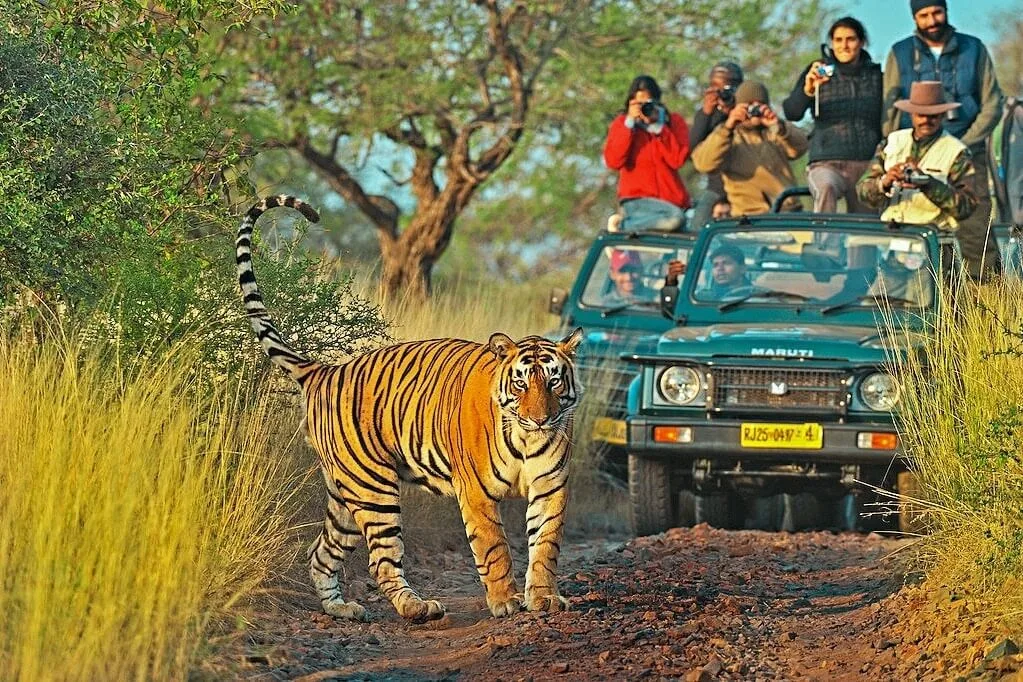
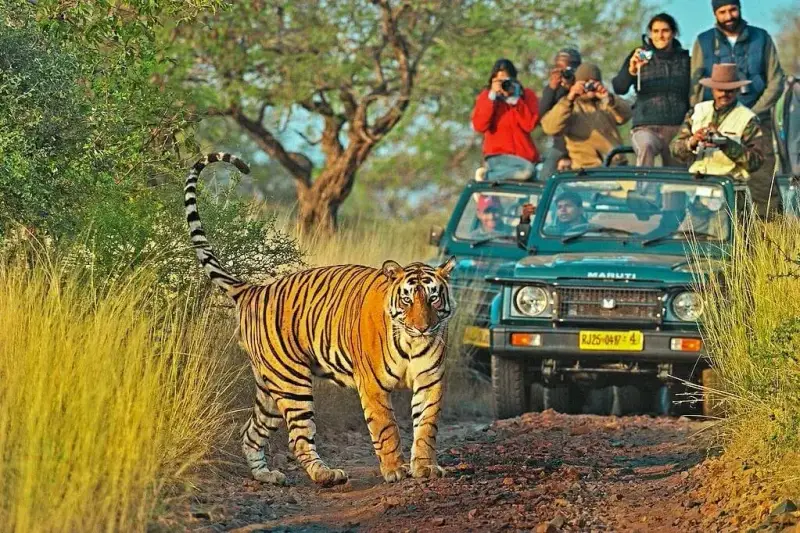
perf: hydrate prerendered HTML, inline CSS, right-size images (PSI LCP fix)
PageSpeed mobile showed LCP 4.4s with a 2.47s "element render delay":
createRoot threw away the prerendered DOM and repainted it once JS ran,
so Chrome recorded LCP at the repaint.

- Prerender now emits real server markup (renderToString + StaticRouter
  on AppShell) and the browser hydrates it (hydrateRoot) — DOM is reused,
  no repaint. Verified clean hydration on all 73 pages.
- Home <style> had two text chunks -> hydration mismatch (#418); merged.
- Hero text no longer fades from opacity 0 (slide only), so it counts as
  painted immediately.
- App CSS (~9 KB) inlined into each page: no render-blocking request.
- Images: hero 720w variant via srcset/imagesrcset (89 -> 34 KB on
  phones), logo 1170px -> 96px (27 -> 1 KB), video poster JPG -> 720w
  WebP (85 -> 24 KB), Ranthambore photo 800w (229 -> 101 KB).
- Blog schema logo URLs pointed at a non-existent unhashed asset.

Local Lighthouse (mobile, throttled): home 93 -> 97, LCP 3.1 -> 2.6s,
render delay ~100ms.

Changed region(s): [[0.375, 0.5103, 0.4688, 0.6004], [0.9062, 0.5103, 0.9375, 0.5403]]

diff --git a/src/pages/Home.jsx b/src/pages/Home.jsx
@@ -26,7 +26,7 @@ import amberFort from "../assets/amber-fort.jpg";
 import cityPalace from "../assets/city-palace.jpeg";
 import cloudResortVideo from "../assets/CloudResort2.mp4";
 import cloudResortPdf from "../assets/cloudResort.pdf";
-import cloudResortPoster from "../assets/CloudResortPoster.jpg";
+import cloudResortPoster from "../assets/CloudResortPoster.webp";
 
 const CITIES_PAGE_LINK = "/city";
 const WHATSAPP_NUMBER = "919636974688";
@@ -301,7 +301,7 @@ export default function Home() {
           color: #fff;
           animation: heroFade 1s ease both 0.2s;
         }
-        @keyframes heroFade { from { opacity:0; transform:translateY(28px); } to { opacity:1; transform:none; } }
+        @keyframes heroFade { from { transform:translateY(28px); } to { transform:none; } } /* no opacity: text counts as painted immediately (LCP) */
 
         .hero-title {
           font-family: 'Cormorant Garamond', serif;
@@ -934,9 +934,9 @@ export default function Home() {
           .stats-inner { grid-template-columns: 1fr 1fr; }
           .hero-title { font-size: 2.6rem; }
         }
-      `}
-        {/* ✅ CORE WEB VITALS ADDITIONS */}
-        {`
+      
+        /* ✅ CORE WEB VITALS ADDITIONS */
+
         /* ── MOBILE TOUCH TARGETS (min 44x44px) ── */
         .btn-primary, .btn-ghost {
           min-height: 48px;
@@ -1119,6 +1119,8 @@ export default function Home() {
           <picture>
             <img
               src="/HeroBannerImagel.webp"
+              srcSet="/HeroBannerImagel-720.webp 720w, /HeroBannerImagel.webp 1170w"
+              sizes="100vw"
               alt="Explore Incredible India — Ranthambore Tiger Safari and Jaipur family tours by BharatMile"
               className="hero-img"
               loading="eager"

diff --git a/src/main.jsx b/src/main.jsx
@@ -1,18 +1,22 @@
 import { StrictMode } from 'react'
-import { createRoot } from 'react-dom/client'
+import { createRoot, hydrateRoot } from 'react-dom/client'
 import './index.css'
 import App from './App.jsx'
 import { findRoute, NotFound } from './routes'
 
-// Load the current page's chunk before mounting so the prerendered HTML is
-// replaced by an identical render instead of the "Loading…" fallback.
+// Load the current page's chunk before hydrating so the first client render
+// matches the prerendered HTML instead of suspending.
 const current = findRoute(window.location.pathname)?.Component ?? NotFound
 Promise.resolve(current.preload?.())
   .catch(() => {})
   .then(() => {
-    createRoot(document.getElementById('root')).render(
+    const container = document.getElementById('root')
+    const app = (
       <StrictMode>
         <App />
-      </StrictMode>,
+      </StrictMode>
     )
+    // Prerendered pages are hydrated (DOM reused, no repaint); dev server renders fresh.
+    if (container.hasChildNodes()) hydrateRoot(container, app)
+    else createRoot(container).render(app)
   })

diff --git a/src/entry-prerender.jsx b/src/entry-prerender.jsx
@@ -1,6 +1,8 @@
 // Build-time only: rendered inside jsdom by scripts/prerender.mjs.
 import { createRoot } from "react-dom/client";
-import App from "./App.jsx";
+import { renderToString } from "react-dom/server";
+import { StaticRouter } from "react-router-dom";
+import App, { AppShell } from "./App.jsx";
 import { findRoute, NotFound } from "./routes";
 
 export { routes } from "./routes";
@@ -12,4 +14,15 @@ export async function renderPage(pathname) {
   const root = createRoot(document.getElementById("root"));
   root.render(<App />);
   return { route, root };
+}
+
+// Server-rendered body markup (with Suspense markers) that the browser
+// hydrates instead of re-creating the DOM.
+export async function renderBody(pathname) {
+  await (findRoute(pathname)?.Component ?? NotFound).preload?.();
+  return renderToString(
+    <StaticRouter location={pathname}>
+      <AppShell />
+    </StaticRouter>
+  );
 }

diff --git a/src/blogs/RanthamboreGuide2026.jsx b/src/blogs/RanthamboreGuide2026.jsx
@@ -22,7 +22,7 @@ export default function RanthamboreGuide2026() {
       "@context": "https://schema.org", "@type": "Article",
       headline: "Ranthambore Safari Guide 2026: Cost, Zones & Best Time for Families",
       author: { "@type": "Organization", name: "BharatMile Editorial" },
-      publisher: { "@type": "Organization", name: "BharatMile", logo: { "@type": "ImageObject", url: "https://bharatmile.com/assets/BharatMile-Logo.webp" } },
+      publisher: { "@type": "Organization", name: "BharatMile", logo: { "@type": "ImageObject", url: "https://bharatmile.com/favicon-512.png" } },
       datePublished: "2026-05-03", image: "https://bharatmile.com/assets/Ranthambore.webp",
     };
     const s = document.createElement("script"); s.type = "application/ld+json"; s.text = JSON.stringify(schema); document.head.appendChild(s);

diff --git a/src/blogs/WhereToStayJaipur.jsx b/src/blogs/WhereToStayJaipur.jsx
@@ -20,7 +20,7 @@ export default function WhereToStayJaipur() {
       "@context": "https://schema.org", "@type": "Article",
       headline: "Where to Stay in Jaipur: A Guide to the Best Neighborhoods for Tourists",
       author: { "@type": "Organization", name: "BharatMile Editorial" },
-      publisher: { "@type": "Organization", name: "BharatMile", logo: { "@type": "ImageObject", url: "https://bharatmile.com/assets/BharatMile-Logo.webp" } },
+      publisher: { "@type": "Organization", name: "BharatMile", logo: { "@type": "ImageObject", url: "https://bharatmile.com/favicon-512.png" } },
       datePublished: "2026-08-01",
     };
     const s = document.createElement("script"); s.type = "application/ld+json"; s.text = JSON.stringify(schema); document.head.appendChild(s);

diff --git a/src/blogs/GypsyVsCanter.jsx b/src/blogs/GypsyVsCanter.jsx
@@ -20,7 +20,7 @@ export default function GypsyVsCanter() {
       "@context": "https://schema.org", "@type": "Article",
       headline: "Gypsy vs Canter in Ranthambore: Which Safari is Best for Families?",
       author: { "@type": "Organization", name: "BharatMile Editorial" },
-      publisher: { "@type": "Organization", name: "BharatMile", logo: { "@type": "ImageObject", url: "https://bharatmile.com/assets/BharatMile-Logo.webp" } },
+      publisher: { "@type": "Organization", name: "BharatMile", logo: { "@type": "ImageObject", url: "https://bharatmile.com/favicon-512.png" } },
       datePublished: "2026-08-01",
     };
     const s = document.createElement("script"); s.type = "application/ld+json"; s.text = JSON.stringify(schema); document.head.appendChild(s);

diff --git a/src/blogs/RanthamborefortGuide.jsx b/src/blogs/RanthamborefortGuide.jsx
@@ -20,7 +20,7 @@ export default function RanthamborefortGuide() {
       "@context": "https://schema.org", "@type": "Article",
       headline: "Ranthambore Fort — Complete Guide and its Surroundings",
       author: { "@type": "Organization", name: "BharatMile Editorial" },
-      publisher: { "@type": "Organization", name: "BharatMile", logo: { "@type": "ImageObject", url: "https://bharatmile.com/assets/BharatMile-Logo.webp" } },
+      publisher: { "@type": "Organization", name: "BharatMile", logo: { "@type": "ImageObject", url: "https://bharatmile.com/favicon-512.png" } },
       datePublished: "2026-08-01",
     };
     const s = document.createElement("script"); s.type = "application/ld+json"; s.text = JSON.stringify(schema); document.head.appendChild(s);

diff --git a/src/blogs/JaipurItinerary3Days.jsx b/src/blogs/JaipurItinerary3Days.jsx
@@ -20,7 +20,7 @@ export default function JaipurItinerary3Days() {
       "@context": "https://schema.org", "@type": "Article",
       headline: "The Ultimate 3-Day Jaipur Itinerary for History Lovers",
       author: { "@type": "Organization", name: "BharatMile Editorial" },
-      publisher: { "@type": "Organization", name: "BharatMile", logo: { "@type": "ImageObject", url: "https://bharatmile.com/assets/BharatMile-Logo.webp" } },
+      publisher: { "@type": "Organization", name: "BharatMile", logo: { "@type": "ImageObject", url: "https://bharatmile.com/favicon-512.png" } },
       datePublished: "2026-08-01",
     };
     const s = document.createElement("script"); s.type = "application/ld+json"; s.text = JSON.stringify(schema); document.head.appendChild(s);

diff --git a/src/blogs/BestTimeRanthambore.jsx b/src/blogs/BestTimeRanthambore.jsx
@@ -20,7 +20,7 @@ export default function BestTimeRanthambore() {
       "@context": "https://schema.org", "@type": "Article",
       headline: "Best Time to Visit Ranthambore for Tiger Sightings",
       author: { "@type": "Organization", name: "BharatMile Editorial" },
-      publisher: { "@type": "Organization", name: "BharatMile", logo: { "@type": "ImageObject", url: "https://bharatmile.com/assets/BharatMile-Logo.webp" } },
+      publisher: { "@type": "Organization", name: "BharatMile", logo: { "@type": "ImageObject", url: "https://bharatmile.com/favicon-512.png" } },
       datePublished: "2026-08-01",
     };
     const s = document.createElement("script"); s.type = "application/ld+json"; s.text = JSON.stringify(schema); document.head.appendChild(s);

diff --git a/src/blogs/TipsFirstSafari.jsx b/src/blogs/TipsFirstSafari.jsx
@@ -20,7 +20,7 @@ export default function TipsFirstSafari() {
       "@context": "https://schema.org", "@type": "Article",
       headline: "10 Essential Tips for Your First Ranthambore Safari",
       author: { "@type": "Organization", name: "BharatMile Editorial" },
-      publisher: { "@type": "Organization", name: "BharatMile", logo: { "@type": "ImageObject", url: "https://bharatmile.com/assets/BharatMile-Logo.webp" } },
+      publisher: { "@type": "Organization", name: "BharatMile", logo: { "@type": "ImageObject", url: "https://bharatmile.com/favicon-512.png" } },
       datePublished: "2026-08-01",
     };
     const s = document.createElement("script"); s.type = "application/ld+json"; s.text = JSON.stringify(schema); document.head.appendChild(s);

diff --git a/src/blogs/Top10JaipurMonuments.jsx b/src/blogs/Top10JaipurMonuments.jsx
@@ -21,7 +21,7 @@ export default function Top10JaipurMonuments() {
       "@context": "https://schema.org", "@type": "Article",
       headline: "Top 10 Must-Visit Monuments in Jaipur in 2026",
       author: { "@type": "Organization", name: "BharatMile Editorial" },
-      publisher: { "@type": "Organization", name: "BharatMile", logo: { "@type": "ImageObject", url: "https://bharatmile.com/assets/BharatMile-Logo.webp" } },
+      publisher: { "@type": "Organization", name: "BharatMile", logo: { "@type": "ImageObject", url: "https://bharatmile.com/favicon-512.png" } },
       datePublished: "2026-08-01",
     };
     const s = document.createElement("script"); s.type = "application/ld+json"; s.text = JSON.stringify(schema); document.head.appendChild(s);

diff --git a/src/App.jsx b/src/App.jsx
@@ -13,9 +13,11 @@ import SiteSeo from "./components/SiteSeo";
 import BlogBookingCta from "./components/BlogBookingCta";
 import RelatedGuides from "./components/RelatedGuides";
 
-export default function App() {
+// Everything inside the router. The browser wraps it in BrowserRouter; the
+// prerender step renders it with StaticRouter so the HTML can be hydrated.
+export function AppShell() {
   return (
-    <BrowserRouter>
+    <>
       <SiteSeo />
       <Navbar />
       <ScrollToTop />
@@ -38,6 +40,14 @@ export default function App() {
 
       <WhatsAppFloat />
       <Footer />
+    </>
+  );
+}
+
+export default function App() {
+  return (
+    <BrowserRouter>
+      <AppShell />
     </BrowserRouter>
   );
 }
